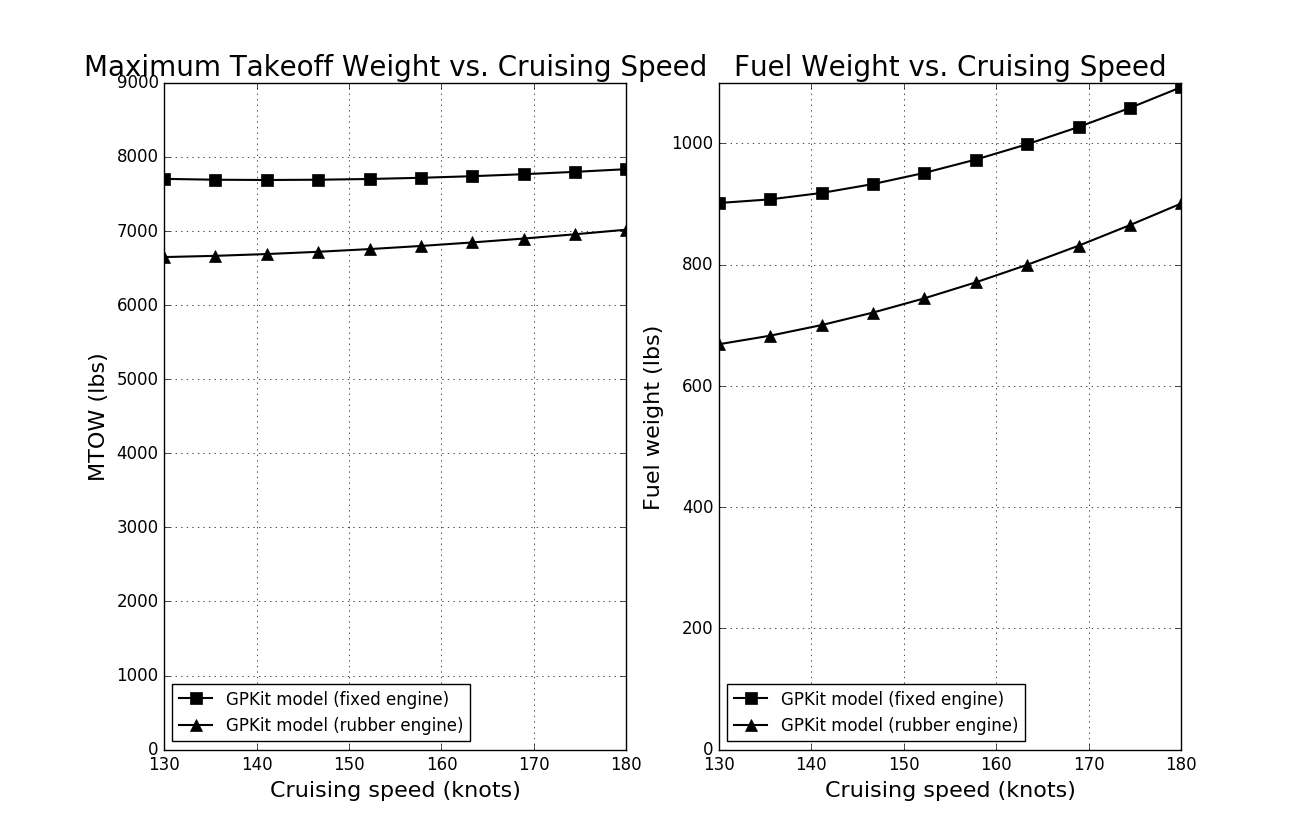
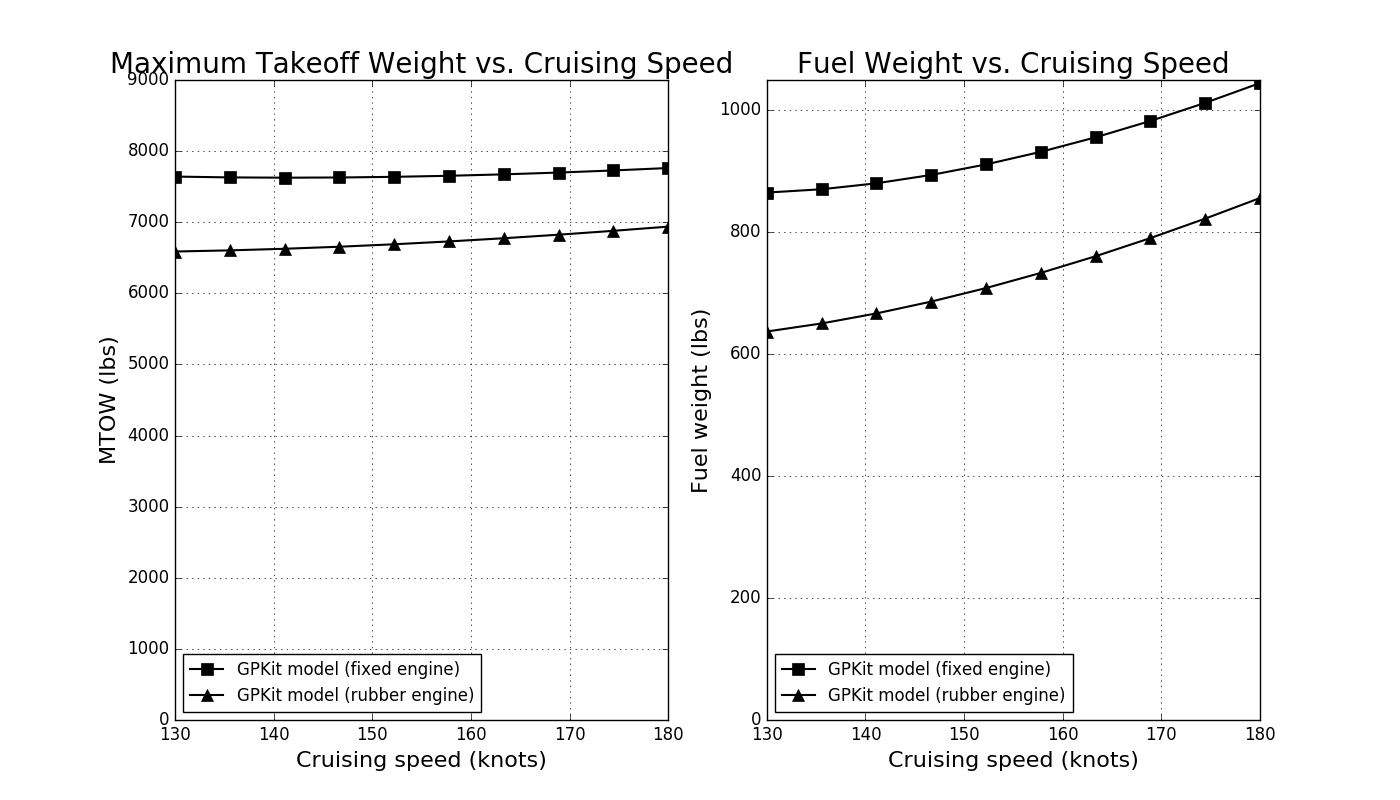
Fix accidential progress loss

diff --git a/GA_aircraft_models.py b/GA_aircraft_models.py
@@ -182,8 +182,11 @@ class Nacelles (Model):
         Swet_oneNacelle = Variable("Swet_oneNacelle",8.172,"m^2","Wetted area of 1 nacelle")
         num_nacelles = Variable("num_nacelles",2,"-","Number of nacelles")
         Swet = Variable("Swet","m^2","Wetted area of nacelles")
-        W = Variable("W",100,"lbf","Nacelle weight (1 nacelle; from C414)")
-        return [Swet == num_nacelles * Swet_oneNacelle]
+        W_oneNacelle = Variable("W_oneNacelle",100,"lbf","Nacelle weight (1 nacelle; from C414)")
+        W = Variable("W","lbf","Nacelle(s) weight")
+
+        return [Swet == num_nacelles * Swet_oneNacelle,
+        	W == num_nacelles * W_oneNacelle]
 
 
 class LandingGear(Model):
@@ -284,7 +287,8 @@ class AircraftPerformance(Model):
         W_segment = Variable("W_segment","lbf","Weight at beginning of segment")
         CL = self.aerodynamics["C_L"]
         CD = self.aerodynamics["C_D"]
-        
+        T_available = Variable("T_available","lbf","Available thrust")
+        D = Variable("D","lbf","Drag")
         g = aircraft.g
 
         constraints = []
@@ -293,6 +297,11 @@ class AircraftPerformance(Model):
         #lift >= weight
         constraints += [W_segment == 0.5*state["rho"]*state["V"]**2 * aircraft.wing["S"]*CL,
         				W_segment >= aircraft["W_ZF"] + Wfuel]
+
+        #Thrust >= drag
+        constraints += [D == 0.5*state["rho"]*state["V"]**2 * aircraft.wing["S"]*CD,
+        				T_available == aircraft.engines["eta_prop"]*aircraft.engines["P"]/state["V"],
+        				T_available >= D]
 
         #Breguet range (Taylor)
         z = (g * segmentRange * aircraft.engines["SFC"] * CD) / (aircraft.engines["eta_prop"] * CL)
@@ -368,7 +377,7 @@ class FlightState(Model):
             rho = Variable("rho",0.90464,"kg/m^3","Air density")
             constraints += [V == V, h == h, rho == rho]
 
-        if stateType == "takeoff":
+        if stateType == "sea_level":
             h = Variable("h",0,"ft","Altitude")
             rho = Variable("rho",1.225,"kg/m^3","Air density")
             constraints += [h == h, rho == rho]
@@ -387,12 +396,12 @@ class FlightState(Model):
 
 class TakeoffDistance(Model):
 
-    def setup(self,aircraft,s_TO_ft=1763,state=FlightState(stateType="takeoff")):
+    def setup(self,aircraft,s_TO_ft=1763,state=FlightState(stateType="sea_level")):
         self.aircraft = aircraft
         self.state = state
         self.aerodynamics = Aerodynamics(aircraft,stateType="takeoff")
         
-        CLmax_TO = self.aerodynamics["CLmax_TO"]
+        CLmax_TO = self.aircraft["CLmax_TO"]
         CD = self.aerodynamics["C_D"]
         g = aircraft.g
 
@@ -402,7 +411,7 @@ class TakeoffDistance(Model):
 
         V_TO = 1.1*((2*aircraft.W_TO) / (state["rho"]*aircraft.wing["S"]*CLmax_TO))**(1./2)#1.1*V_stall
         D_TO = 0.5 * state["rho"] * V_TO**2 * aircraft.wing["S"] * CD
-        T_TO = aircraft.engines["eta_prop"]*aircraft.engines["num_engines"]*aircraft.engines["P"]/V_TO
+        T_TO = aircraft.engines["eta_prop"]*aircraft.engines["P"]/V_TO
 
         constraints = []
 
@@ -416,12 +425,12 @@ class TakeoffDistance(Model):
 
 class StallSpeed(Model):
 
-	def setup(self,aircraft,Vstall_kts=78,state=FlightState(stateType="takeoff")):
+	def setup(self,aircraft,Vstall_kts=78,state=FlightState(stateType="sea_level"),fuel_fraction=1):
 
 		self.aircraft = aircraft
 		self.state = state
 
-		W_half = Variable("W_{half}","lbf","Weight at 50% cruise (approximate")
+		W_stallSpeed = Variable("W_stallSpeed","lbf","Weight for evaluation of stall-speed constraint")
 
 		Vstall = Variable("Vstall","knots","Sea-level stalling speed (knots)")
 		Vstall_req = Variable("Vstall_req",Vstall_kts,"knots","Sea-level stalling speed requirement (knots)")
@@ -430,8 +439,8 @@ class StallSpeed(Model):
 		constraints = []
 		constraints += [self.state]
 
-		constraints += [W_half >= aircraft["W_ZF"] + 0.5*aircraft["W_fuel"],
-						Vstall == ((2**0.5 * W_half**0.5)/(self.state["rho"]**0.5 * self.aircraft["S"]**0.5 * CLmax**0.5)),
+		constraints += [W_stallSpeed >= aircraft["W_ZF"] + fuel_fraction*aircraft["W_fuel"],
+						Vstall == ((2*W_stallSpeed)/(self.state["rho"]*self.aircraft["S"]*CLmax))**0.5,
 						Vstall <= Vstall_req]
 
 		return constraints
@@ -439,7 +448,7 @@ class StallSpeed(Model):
 class ClimbConstraint(Model):
 
     def setup(self,aircraft,constraintType="ClimbGradient",velocityType="1.3Vstall",
-            flightStateType="takeoff",aeroStateType="OEI_climb",V_v_req_fpm=0,
+            flightStateType="sea_level",aeroStateType="OEI_climb",V_v_req_fpm=0,
             gamma_req=0.01,fuel_fraction=1):
         
         self.aircraft = aircraft
@@ -495,7 +504,7 @@ if __name__ == "__main__":
     ureg = pint.UnitRegistry()
 
     takeoff_distance_ft = 1763
-    range_nm = 1000
+    range_nm = 957
     N = 5 #number of cruise segments
     stall_speed_kts = 78
     cruise_speed_kts = 180
@@ -565,9 +574,11 @@ if __name__ == "__main__":
     GA_solution_rubberEngine = GA_model_rubberEngine.solve(verbosity=0)
 
     #print GA_solution_fixedEngine.summary()
-    print GA_solution_rubberEngine.summary()
+    #print GA_solution_rubberEngine.summary()
 
-    #print "Rubber-engine takeoff weight: %0.0f lbs" % GA_solution_rubberEngine["variables"]["W_TO"].magnitude
+    print "Rubber-engine takeoff weight: %0.0f lbs" % GA_solution_rubberEngine["variables"]["W_TO"].to(ureg.lbf).magnitude
+    print "Rubber-engine power available: %0.0f hp" % GA_solution_rubberEngine["variables"]["P_Aircraft, Engines"].to(ureg.hp).magnitude
+    print "Rubber-engine wing area: %0.0f ft^2" % GA_solution_rubberEngine["variables"]["S"].to(ureg.square_foot).magnitude
 
 
 

diff --git a/cruiseSpeed_sweep.py b/cruiseSpeed_sweep.py
@@ -12,7 +12,7 @@ from GA_aircraft_models import *
 ureg = pint.UnitRegistry()
 
 takeoff_distance_ft = 1763
-range_nm = 1000
+range_nm = 957
 N = 5 #number of cruise segments
 stall_speed_kts = 78
 cruise_speed_kts = np.linspace(130,180,10)

diff --git a/GA_model.py b/GA_model.py
@@ -79,7 +79,6 @@ GA_solution_rubberEngine = GA_model_rubberEngine.solve(verbosity=0)
 #print GA_solution_fixedEngine.summary()
 #print GA_solution_rubberEngine.summary()
 
-
 #GA_mission.debug()
 
 # Plotting commands
